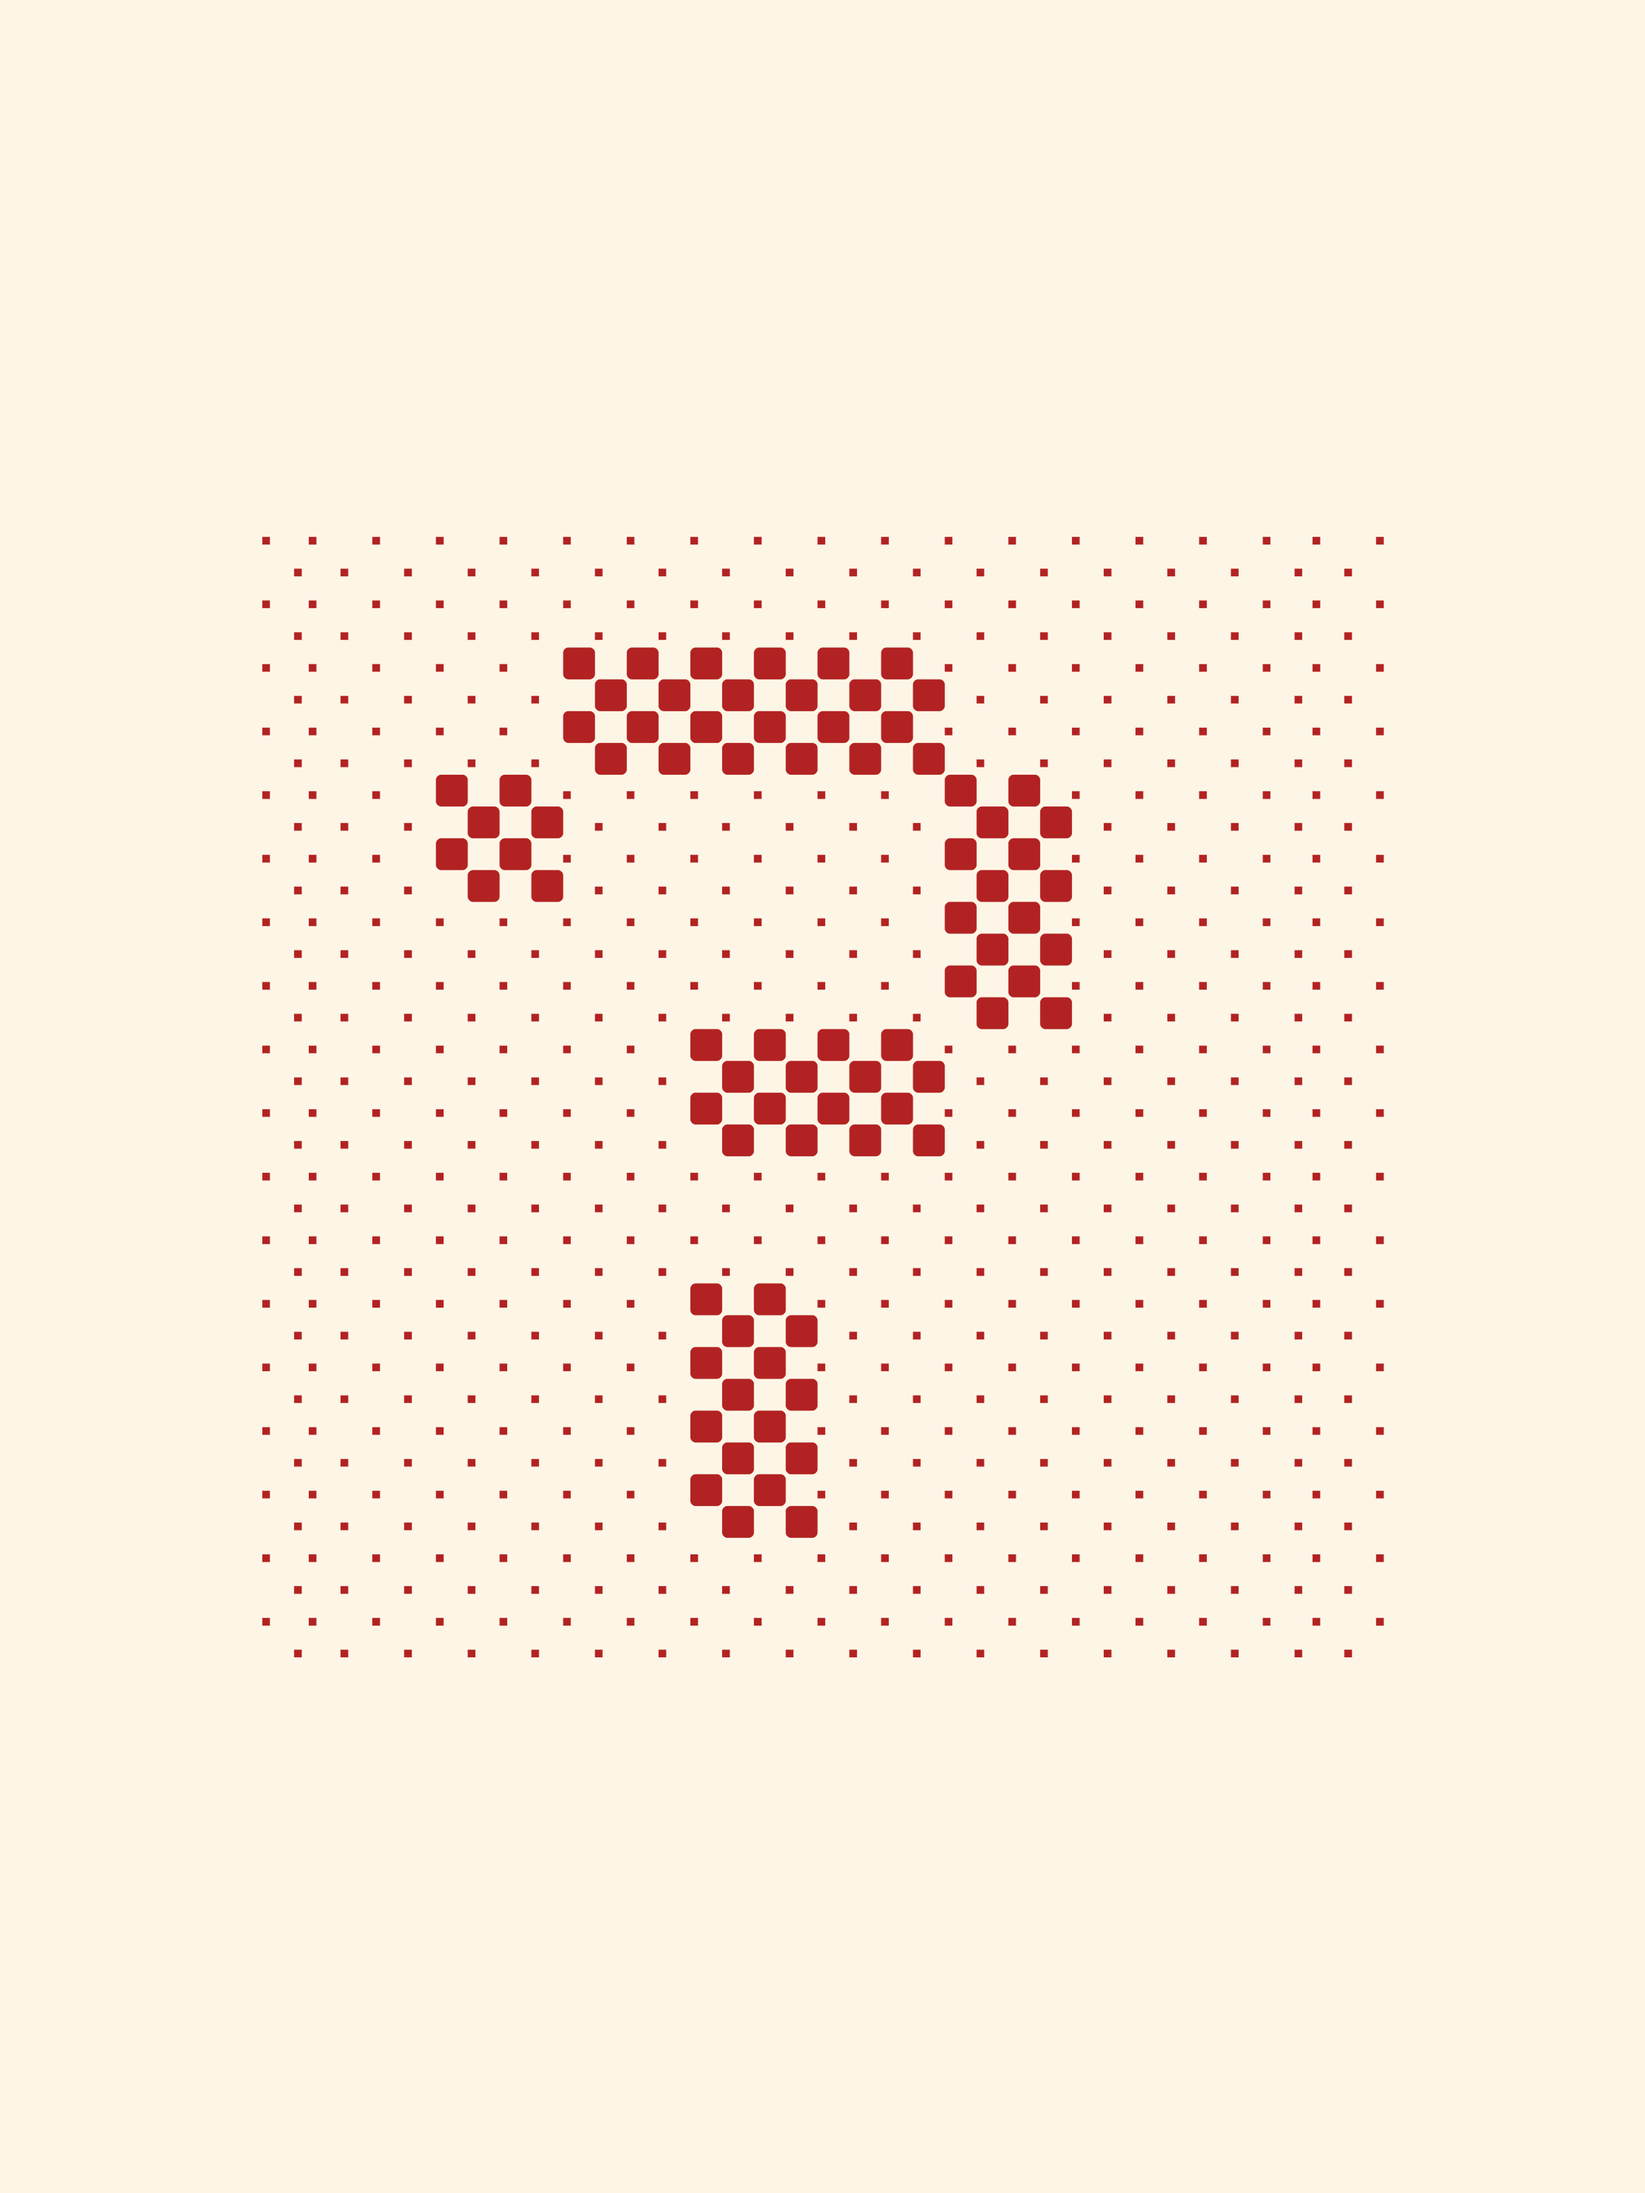
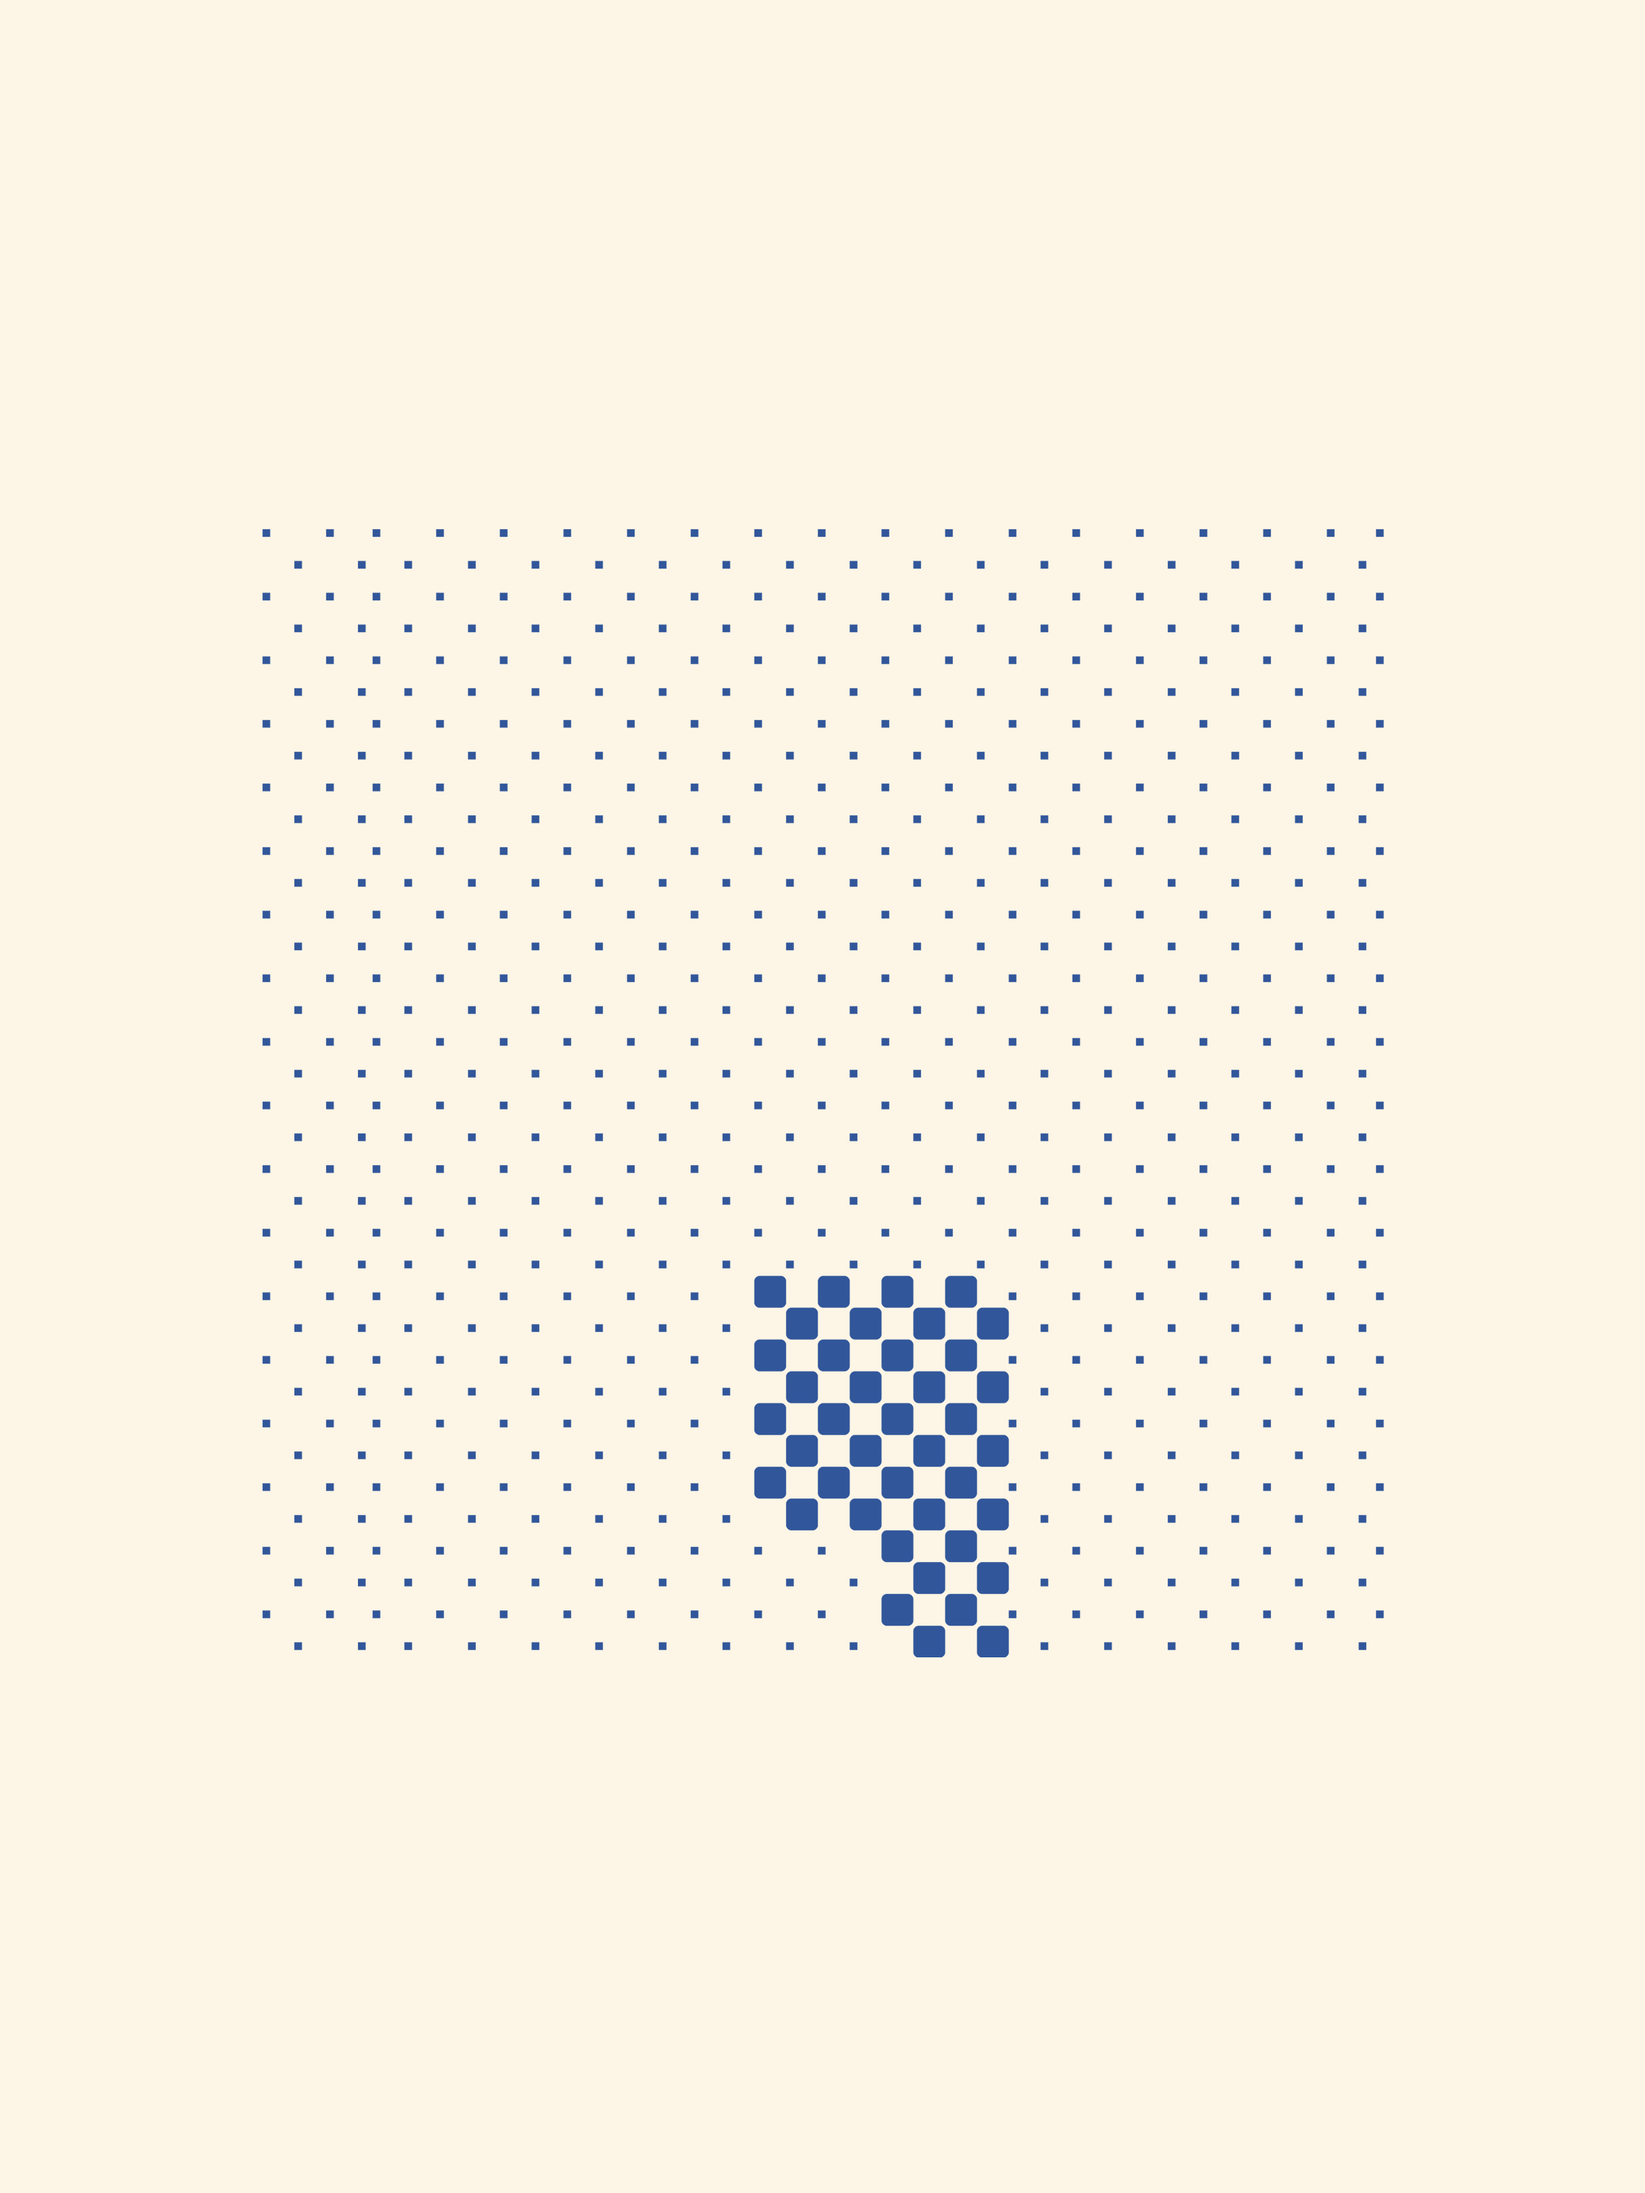
comma

Changed region(s): [[0.248, 0.2812, 0.651, 0.5312], [0.403, 0.5625, 0.62, 0.7812]]

diff --git a/comma/index.html b/comma/index.html
@@ -3,7 +3,7 @@
 <head>
     <meta charset="UTF-8">
     <meta name="viewport" content="width=device-width, initial-scale=1.0">
-    <title>Question Mark</title>
+    <title>Comma</title>
     <link rel="icon" type="image/x-icon" href="images/favicon.jpg">
     <link rel="stylesheet" href="reset.css">
     <link rel="stylesheet" href="style.css">
@@ -18,25 +18,27 @@
             <div class="table-container">
             <table>
                 <tr><th>
-                    <h1>QueStioN<br>MarK</h1>
+                    <h1>cOmmA</h1>
                 </th></tr>
                 <tr><th><div class="scroll">
-                    <p>There are some punctuations that are interesting and there are some punctuations that are not. Let us begin with the punctuations that are not. Of these the one but the first and the most the completely most uninteresting is the <span>?</span>
-                    . The <span>?</span> 
-                    is alright when <span>?</span> 
-                    is all alone when <span>?</span> 
-                    is used as a brand on cattle or when <span>?</span> 
-                    could be used in decoration but connected with writing <span>?</span> 
-                    is completely entirely completely uninteresting. It is evident that is you ask a question you ask a question but anybody who can read at all knows when a question is a question as it is written in writing. Therefore I ask you therefore wherefore should one use the <span>?</span>. 
-                    Beside it does not in its form go with ordinary printing and so it pleases neither the eye nor the ear and it is therefore like a noun, just an unnecessary name of something. A question is a question, anybody can know that a question is a question and so why add to it the <span>?</span> 
-                    when it is already there when the question is already there in the writing. Therefore I never could bring myself to use a <span>?</span>
-                    , I always found <br><span>?</span> 
-                    positively revolting, and now very few do use it. Exclamation marks have the same difficulty and also quotation marks, they are unnecessary, they are ugly, they spoil the line of the writing or the printing and anyway what is the use, if you do not know that a question is a question what is the use of its being a question. The same thing is true of a quotation. When I first began writing I found it simply impossible to use <span>?</span> 
-                    and quotation marks and exclamation points and now anybody sees it that way. Perhaps some day they will see it some other way but not at any rate anybody can and does see it that way.<br><br>
-                    So there are the uninteresting things in punctuation uninteresting in a way that is perfectly obvious, and so we do not have to go any farther into that. There are besides dashes and dots, and these might be interesting spaces might be interesting. They might if one felt that way about them. </p>
+                    <p>
+                        What does a <span>,</span> do.<br><br>
+                        I have refused <span>,</span> so often and left the out so much and did without them so continually that I have come finally to be indifferent to <span>,</span>. I do not now care whether you put <span>,</span> in or not but for a long time I felt very definitely about <span>,</span> and would have nothing to do with <span>,</span>.<br><br>
+                        As I say <span>,</span> are servile and they have no life of their own, and their use is not a use, it is a way of replacing one’s own interest and I do decidedly like to like my own interest my own interest in what I am doing. A <span>,</span> 
+                        by helping you along holding your coat for you and putting on your shoes keeps you from living your life as actively as you should lead it and to me for many years and I still do feel that way about it only now I do not pay as much attention to them, the use of <span>,</span> was positively degrading. Let me tell you what I feel and what I mean and what I felt and what I meant.
+                        When I was writing those long sentences of The Making of Americans, verbs active present verbs with long dependent adverbial clauses became a passion with me. I have told you that I recognize verbs and adverbs aided by prepositions and conjunctions with pronouns as possessing the whole of the active life of writing. <br><br>
+                        Complications make eventually for simplicity and therefore I have always liked dependent adverbial clauses. I have like dependent adverbial clauses because of their variety of dependence and independence. You can see how loving the intensity of complication of these things that <span>,</span> 
+                        would be degrading. Why if you want the pleasure of concentrating on the final simplicity of excessive complication would you want any artificial aid to bring about that simplicity. Do you see now why I feel about that simplicity. Do you see now why I feel about the <span>,</span> as I did and as I do.<br><br>
+                        Think about anything you really like to do and you will see what I mean.<br><br>
+                        When it gets really difficult you want to disentangle rather than to cut the knot, at least of anybody feels who is working with any thread, so anybody feels who is working with any tool so anybody feels who is writing any sentence or reading it after it has been written. And what does a <span>,</span> 
+                        do, a <span>,</span> does nothing but make easy a thing that if you like it enough is easy enough without the <span>,</span>. A long complicated sentence should force itself upon you, make you know yourself knowing it and the <span>,</span>, well at the most a <span>,</span> 
+                        is a poor period that lets you stop and take a breath but if you want to take a breath you ought to know yourself that you want to take a breath. It is not like stopping altogether has something to do with going on, but taking a breath well you are always taking a breath and why emphasize one breath rather than another breath. Anyway that is the way I felt about it and I felt that about it very very strongly. And so I almost never used a <span>,</span>. 
+                        The longer, the more complicated the sentence the greater the number of the same kinds of words I had following one after another, the more the very more I had of them the more I felt the passionate need of their taking care of themselves by themselves and not helping them, and thereby enfeebling them by putting in a <span>,</span>.<br><br>
+                        So that is the way I felt about punctuation in prose, in poetry it is a little different but more so and later I will go into that. But that is the way I felt about punctuation in prose.
+                    </p>
                 </div></th></tr>
                 <tr><th>
-                    <h2>1</h2>
+                    <h2>5</h2>
                 </th></tr>
             </table></div>
         </section>

diff --git a/colon/index.html b/colon/index.html
@@ -3,7 +3,7 @@
 <head>
     <meta charset="UTF-8">
     <meta name="viewport" content="width=device-width, initial-scale=1.0">
-    <title>Colon & Semi-colon</title>
+    <title>Colon</title>
     <link rel="icon" type="image/x-icon" href="images/favicon.jpg">
     <link rel="stylesheet" href="reset.css">
     <link rel="stylesheet" href="style.css">
@@ -25,8 +25,7 @@
                         You can see what an entirely different thing a period is from a comma, a <span>:</span> or a <span>;</span>.<br><br>
                         There are two different way of thinking about <span>:</span> and <span>;</span> 
                         you can think of them as commas and as such they are purely servile or you can think of them as periods and then using them can make you feel adventurous I can see that one might feel about them as periods but I myself never have, I began unfortunately to feel them as a comma and commas are servile they have no life of their own they are dependent upon use and convenience and they are put there just for practical purposes. <span>;</span> and <span>:</span> 
-                        had for me from the first completely this character the character that a comma has and not the character that a period has and therefore and definitely I have never used them. But now dimly and definitely I do see that they might well possibly they might have in them something of the character of the period and so it might have been an adventure to use <span>:</span> and <span>;</span>
-                        . I really do not think so. I think however lively they are or disguised they are they are definitely more comma than period and so really I cannot regret not having used them. <span>:</span> and <span>;</span> 
+                        had for me from the first completely this character the character that a comma has and not the character that a period has and therefore and definitely I have never used them. But now dimly and definitely I do see that they might well possibly they might have in them something of the character of the period and so it might have been an adventure to use <span>:</span> and <span>;</span>. I really do not think so. I think however lively they are or disguised they are they are definitely more comma than period and so really I cannot regret not having used them. <span>:</span> and <span>;</span> 
                         are more powerful more imposing more pretentious than a comma but they are a comma all the same. They really have within them deeply within them fundamentally within them the comma nature. And now what does a comma do and what has it to do and why do I feel as I do about them.
                     </p>
                 </div></th></tr>

diff --git a/comma/style.css b/comma/style.css
@@ -12,7 +12,7 @@
 body{
     margin: 0;
     padding: 0;
-    background-color: antiquewhite;
+    background-color: #dddee1;
 }
 
 .cover{
@@ -40,7 +40,7 @@ body{
     left: 0;
     width: 100%;
     height: 7px;
-    background-color: firebrick;
+    background-color: #213a68;
     transform-origin: bottom;
     transform: skewX(-45deg);
 }
@@ -52,7 +52,7 @@ body{
     right: -7px;
     width: 7px;
     height: 100%;
-    background-color: rgb(178, 34, 34, 0.5);
+    background-color: rgb(33, 58, 104, 0.5);
     transform-origin: left;
     transform: skewY(-45deg);
 }
@@ -93,11 +93,11 @@ body{
 
 h1 {
     text-align: center;
-    color: firebrick;
+    color: #213a68;
     font-family: "Bianzhidai";
     font-size: 30pt;
     line-height: 30pt;
-    padding: 20px 0;
+    padding: 45px 0;
 }
 
 .text {
@@ -109,7 +109,7 @@ p {
     font-size: 7.5pt;
     line-height: 12pt;
     padding: 0 28px;
-    color: firebrick;
+    color: #213a68;
     font-family: "Ayuthaya", sans-serif;
     font-style: normal;
     text-align: left;
@@ -131,7 +131,7 @@ span:hover {
 
 h2 {
     text-align: center;
-    color: firebrick;
+    color: #213a68;
     font-family: "Bianzhidai";
     font-size: 30pt;
     line-height: 30pt;
